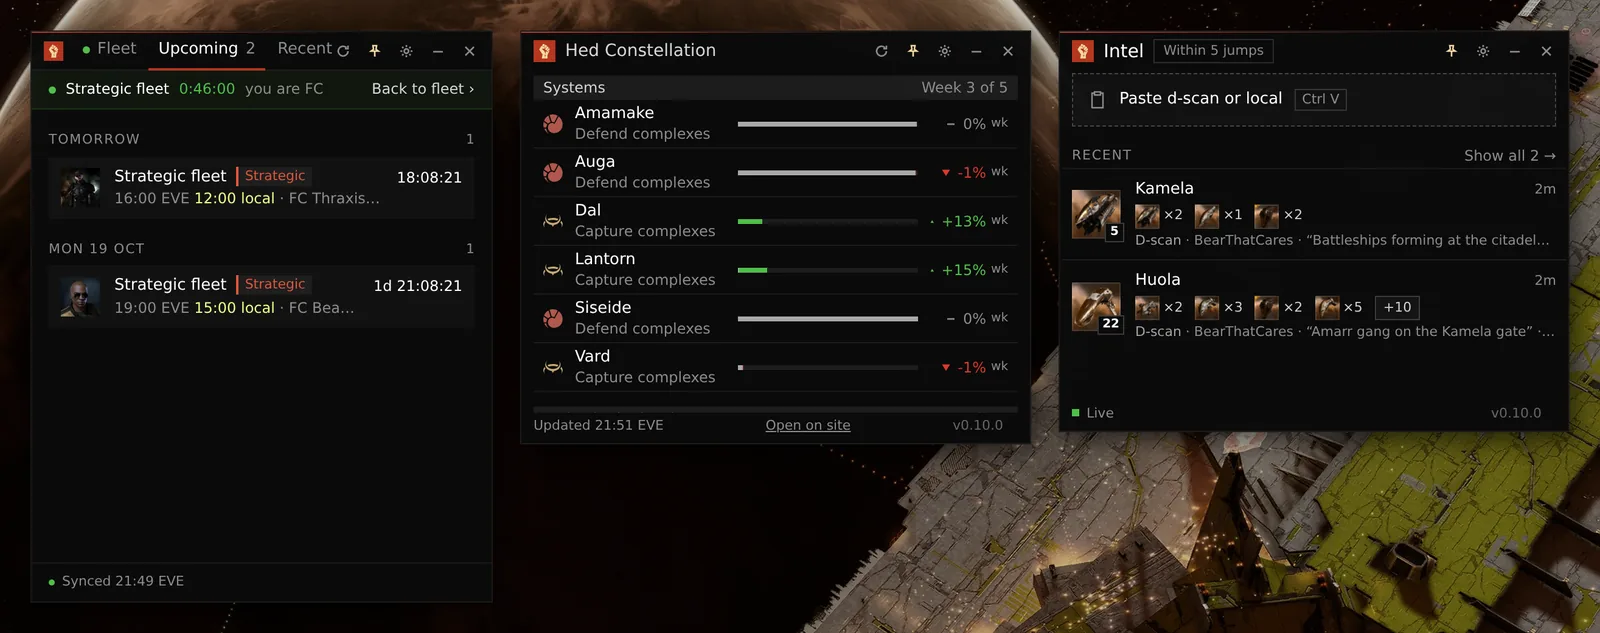
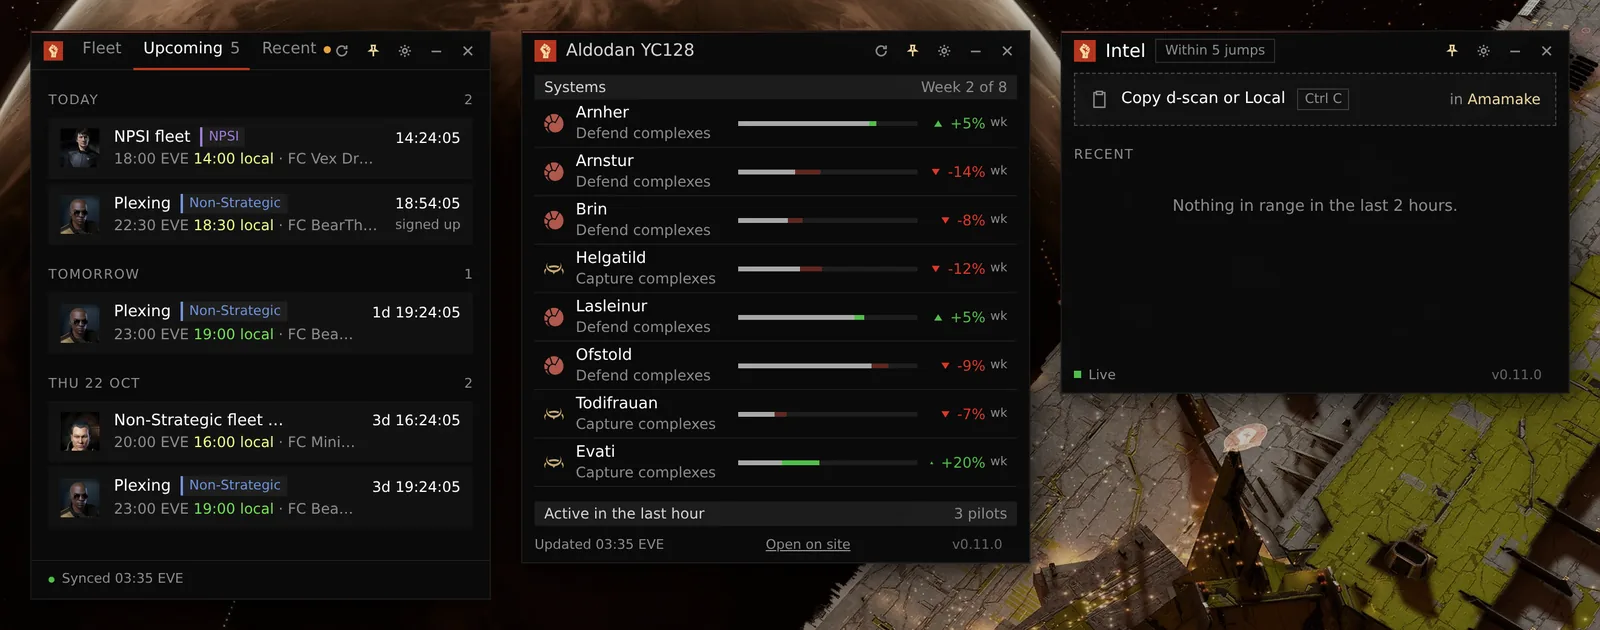
Newsletter: production desktop screenshot, direct installer link, no duplicate #help line

diff --git a/frontend/app/src/data/newsletter/yc128-10.ts b/frontend/app/src/data/newsletter/yc128-10.ts
@@ -8,7 +8,6 @@ const IMG = `/images/newsletter/${SLUG}`
 const HELP_URL = 'https://discord.com/channels/1041384161505722368/1183401618943791186'
 const HELP_LINK = `<a href="${HELP_URL}">#help</a>`
 const AAR_URL = '/fleets/history/2405/#fights'
-const TEST_DATA = 'Shown with test data.'
 
 export const YC128_10: NewsletterIssue = {
     slug: SLUG,
@@ -80,9 +79,9 @@ export const YC128_10: NewsletterIssue = {
                 {
                     src: `${IMG}/desktop.webp`,
                     width: 1600,
-                    height: 633,
-                    alt: 'Three overlay windows over an EVE scene: the Fleet window on its Upcoming tab, a campaign, and Intel with two shared d-scans.',
-                    caption: `Fleet, Campaigns and Intel windows. ${TEST_DATA}`,
+                    height: 630,
+                    alt: "Three overlay windows over an EVE scene: the Fleet window's Upcoming tab with this week's fleets, the Aldodan campaign's eight systems and their weekly moves, and the Intel window ready for a paste.",
+                    caption: 'The Fleet, Campaigns and Intel windows.',
                     wide: true,
                 },
             ],
@@ -96,8 +95,8 @@ export const YC128_10: NewsletterIssue = {
                 text: `The app is brand new, so expect rough edges and changes from week to week. If something breaks, tell us in ${HELP_LINK}.`,
             },
             cta: {
-                links: [{ label: 'Try the early version', href: 'https://github.com/minmatarfleet/minmatar.org/releases/latest' }],
-                note: 'Windows only. It updates itself.',
+                links: [{ label: 'Download the early version', href: 'https://github.com/minmatarfleet/minmatar.org/releases/download/v0.11.0/MinmatarFleet-0.11.0-x64.exe' }],
+                note: 'Windows installer. It updates itself after that.',
             },
         },
         {
@@ -360,7 +359,6 @@ export const YC128_10: NewsletterIssue = {
     ],
     footer: {
         thanks: 'Built this month by BearThatCares, Beautiful Mim and Marcelo Paez Sequeira. Thanks to everyone who reported bugs.',
-        data_note: 'The desktop app screenshot uses sample data. October numbers are live data up to 19 October.',
-        help: `Found something broken, or want something built? Open a ticket in ${HELP_LINK} on the alliance Discord.`,
+        data_note: 'Fleet, campaign and order numbers are as of 19 October.',
     },
 }

diff --git a/frontend/app/src/data/newsletter/types.ts b/frontend/app/src/data/newsletter/types.ts
@@ -185,6 +185,6 @@ export interface NewsletterIssue {
         thanks: string
         data_note: string
         /** html */
-        help: string
+        help?: string
     }
 }
